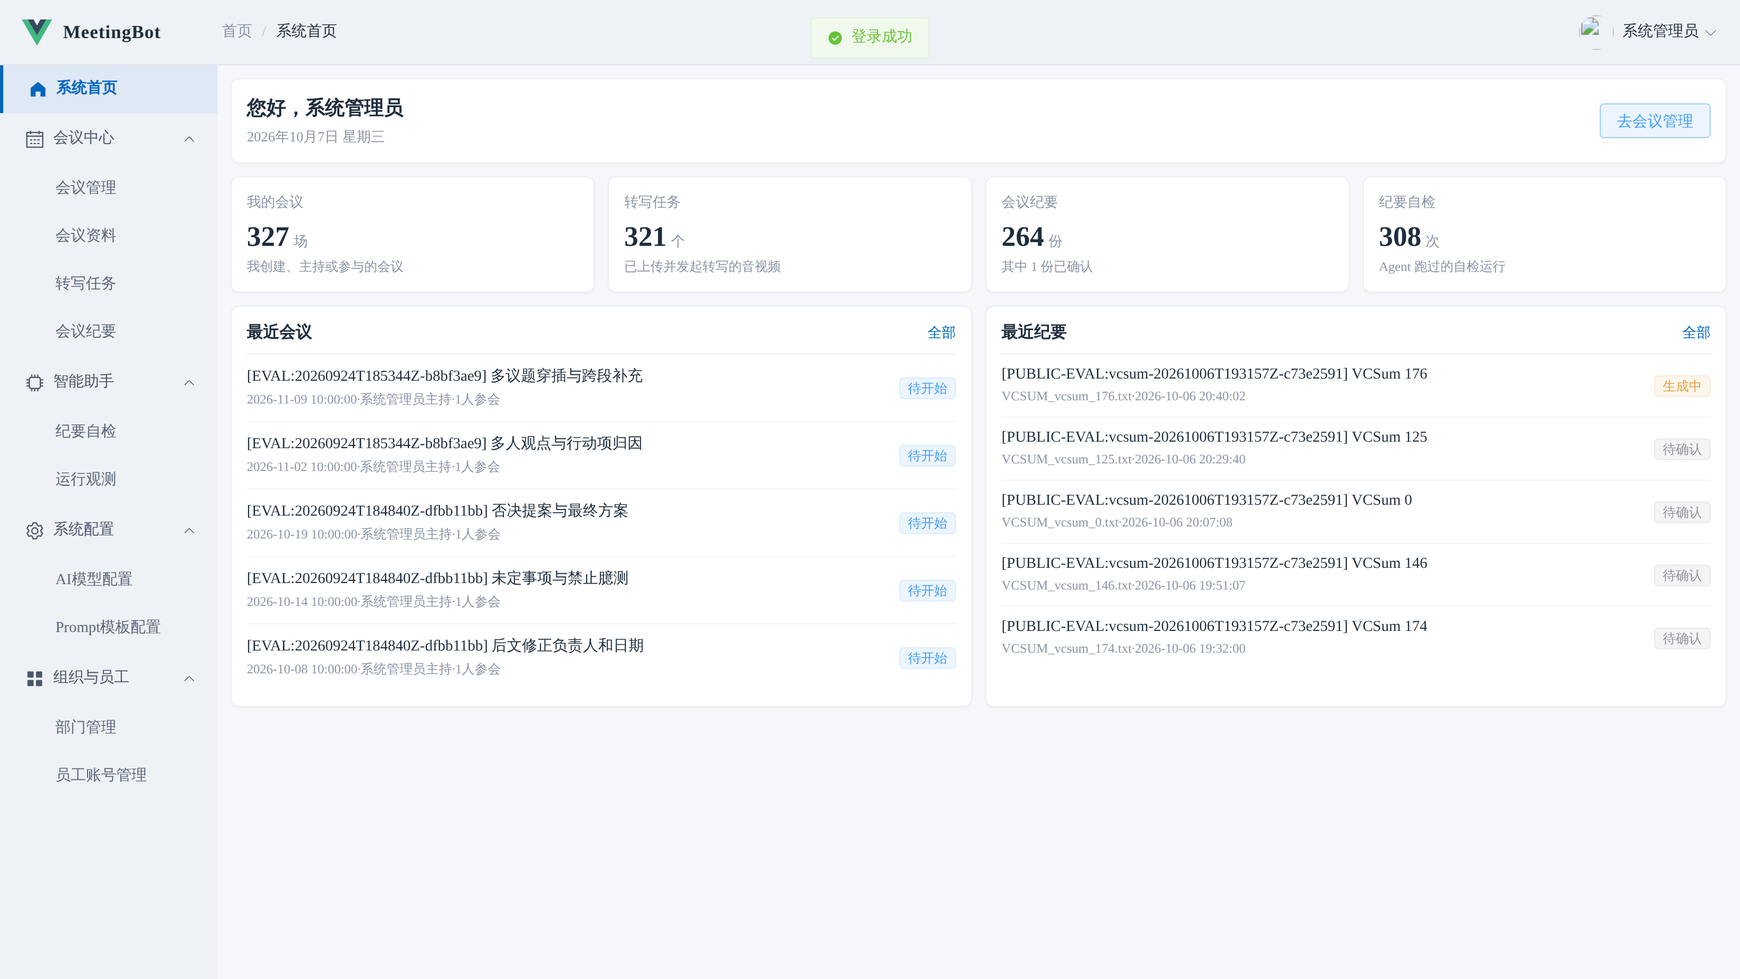
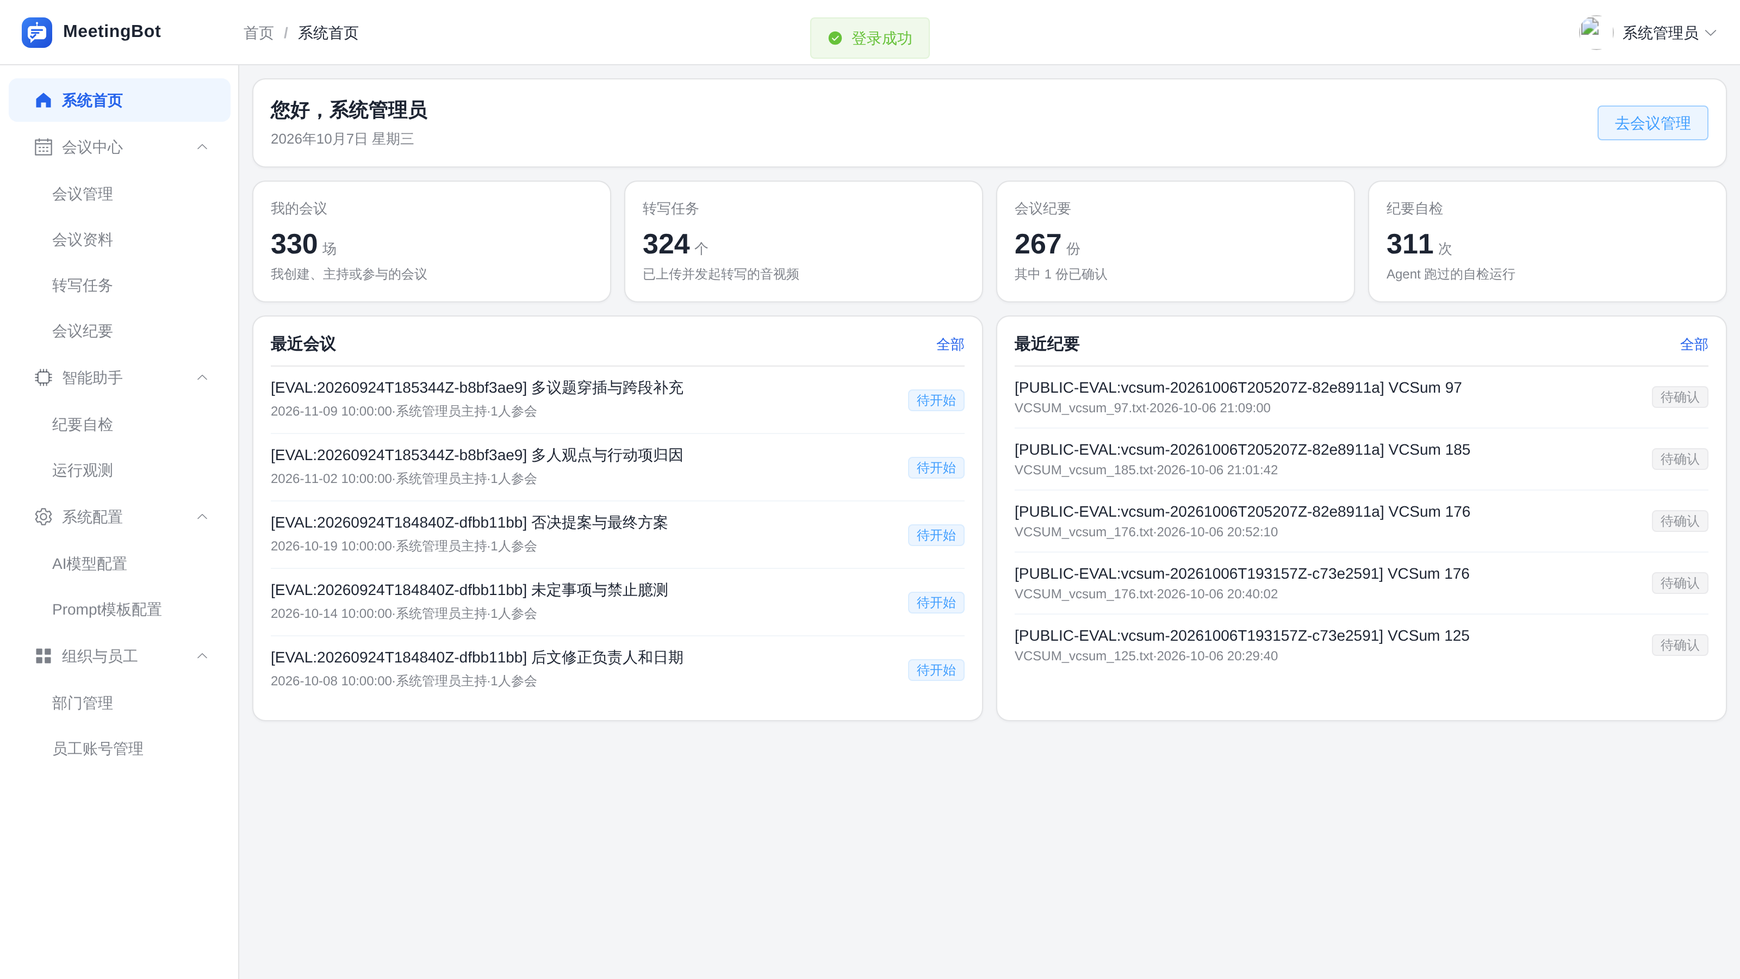
docs: README 重写（对齐 Smartlect 叙述风格）+ MIT 许可
章节对齐 Smartlect：标语+徽章+主图 → 场景编号叙事（上传/转写/纪要/自检/归档）→ 能力分节 → 架构（Mermaid+链路表）→ 技术栈与目录树 → 快速开始（端口表）→ 验证命令 → 运维排查 → 决策记录（指向评测账本）→ 仓库边界 → 许可。按用户要求不写入质量指标数字。新增 MIT LICENSE；12 张截图全部按新视觉重拍。

diff --git a/README.md b/README.md
@@ -1,53 +1,68 @@
 # MeetingBot
 
-[![Python 3.12](https://img.shields.io/badge/Python-3.12-3776AB?style=flat-square&logo=python&logoColor=white)](https://www.python.org/)
-[![FastAPI](https://img.shields.io/badge/FastAPI-asyncio-009688?style=flat-square&logo=fastapi&logoColor=white)](https://fastapi.tiangolo.com/)
-[![Vue 3](https://img.shields.io/badge/Vue-3-4FC08D?style=flat-square&logo=vuedotjs&logoColor=white)](https://vuejs.org/)
-[![MySQL 8](https://img.shields.io/badge/MySQL-8-4479A1?style=flat-square&logo=mysql&logoColor=white)](https://www.mysql.com/)
-[![LangGraph](https://img.shields.io/badge/LangGraph-agent-1C3C3C?style=flat-square)](https://github.com/langchain-ai/langgraph)
-[![Temporal](https://img.shields.io/badge/Temporal-durable--execution-00B4A0?style=flat-square)](https://temporal.io/)
-[![tests](https://img.shields.io/badge/tests-187+%E2%80%89%2B%E2%80%89205-brightgreen?style=flat-square)](#%E6%80%8E%E4%B9%88%E9%AA%8C%E8%AF%81%E5%AE%83%E7%9C%9F%E7%9A%84%E8%83%BD%E8%B7%91)
-[![compose](https://img.shields.io/badge/docker--compose-5--services-2496ED?style=flat-square&logo=docker&logoColor=white)](compose.yaml)
-
 **一场会开完，纪要已经能用了。**
 
 录音或视频传进来，MeetingBot 负责剩下的：转写（谁说了什么）→ 六字段结构化纪要 → Agent 对着原文自检一遍 → 人工确认归档。FastAPI + Vue 3 + MySQL + LangGraph + Temporal，Docker Compose 一条命令起全套。
 
-但这个项目真正的主线是另一件事：**用可复算的评测回答「纪要质量怎么衡量」**。转写对齐 M2MeT 官方 cpCER 口径、忠实度对齐 Vectara HHEM、完整性用 FineSurE 式清单法、行动项核对 AID——每一条结论连口径、证据路径一起登记在 [`evaluation/LEDGER.md`](evaluation/LEDGER.md)，检不出就写检不出。
+[![Python 3.12](https://img.shields.io/badge/Python-3.12-3776AB?style=flat-square&logo=python&logoColor=white)](https://www.python.org/)
+[![FastAPI](https://img.shields.io/badge/FastAPI-asyncio-009688?style=flat-square&logo=fastapi&logoColor=white)](https://fastapi.tiangolo.com/)
+[![Vue 3](https://img.shields.io/badge/Vue-3-4FC08D?style=flat-square&logo=vuedotjs&logoColor=white)](https://vuejs.org/)
+[![Element Plus](https://img.shields.io/badge/Element--Plus-2.8-409EFF?style=flat-square)](https://element-plus.org/)
+[![MySQL 8](https://img.shields.io/badge/MySQL-8-4479A1?style=flat-square&logo=mysql&logoColor=white)](https://www.mysql.com/)
+[![LangGraph](https://img.shields.io/badge/LangGraph-agent-1C3C3C?style=flat-square)](https://github.com/langchain-ai/langgraph)
+[![Temporal](https://img.shields.io/badge/Temporal-durable--execution-00B4A0?style=flat-square)](https://temporal.io/)
+[![docker compose](https://img.shields.io/badge/docker--compose-5%20services-2496ED?style=flat-square&logo=docker&logoColor=white)](compose.yaml)
+[![license](https://img.shields.io/badge/license-MIT-3DA639?style=flat-square)](LICENSE)
 
 ![登录页](docs/assets/screenshots/meetingbot-login.png)
 
 ## 一场会议在这里经历什么
 
-**① 上传与转写**：会议资料页上传音视频（SHA-256 去重），FFmpeg 抽单声道音轨，云端 ASR 单请求直传（≤2h 预检），说话人分离后逐段落库；片段支持人工修订，LLM 说话人匹配建议只从参会人名单里选。
+**① 上传**：会议资料页上传音视频，按内容哈希去重，同一份文件不会存两遍。
+
+**② 转写**：FFmpeg 抽单声道音轨后走云 ASR 单请求直传（说话人分离），逐段落到数据库；片段支持人工修订，说话人拿不准时可以一键让 LLM 从参会人名单里给建议。
 
 ![转写片段](docs/assets/screenshots/meetingbot-transcription-detail.png)
 
-**② 六字段纪要**：单遍长上下文调用生成六字段结构化纪要——概要、议题、观点、决策、待办、风险。每个字段带类型化槽位与证据来源（[`services/contracts.py`](ai_meeting/fastapi-app/services/contracts.py) 把「不许凭空断言」做成数据结构不变量）；磁盘调用缓存让重试不为成功过的调用重复付费。
+**③ 纪要**：单遍长上下文调用生成六字段结构化纪要——概要、议题、观点、决策、待办、风险；每个字段带类型化槽位与证据来源，契约层把「不许凭空断言」做成数据结构不变量。
 
 ![纪要六字段详情](docs/assets/screenshots/meetingbot-minutes-detail.png)
 
-**③ 证据门控自检**：LangGraph 状态机跑「审查 → 重写 → 复审」反思环——Agent 对着转写原文核对六块内容，发现问题自己改一版，全程 SSE 流式推给前端；修订稿**必须人工确认**才会覆盖原纪要。
+**④ 自检**：LangGraph 状态机跑「审查 → 重写 → 复审」反思环，Agent 对着转写原文核对六块内容，全程 SSE 流式推给前端；修订稿必须人工确认才会覆盖原纪要。
 
 ![Agent 自检](docs/assets/screenshots/meetingbot-agent-detail.png)
 
-**④ 确认与归档**：确认后的纪要一键导出 Word / PDF；运行观测页汇总每次模型调用的成功率、Token 用量与失败原因（统计卡片下图按天趋势，数据来自真实评测运行）。
+**⑤ 确认归档**：确认后的纪要一键导出 Word / PDF；运行观测页把每次模型调用记账——成功率、Token 用量、失败原因，卡的住的证据都在。
 
 ![运行观测](docs/assets/screenshots/meetingbot-observability.png)
 
-## 质量是账本，不是感觉
+## 转写：谁在什么时候说了什么
 
-评测体系占这个仓库的一半，宪法六条：结论预注册、裁判异族、检不出就写检不出、留出集消费记账、评测不 import 产品实现、不报加权总分（[`evaluation/README.md`](evaluation/README.md)）。核心结论摘录（口径与证据文件见账本）：
+- 云端 ASR 单请求直传整段录音，一次调用拿到带说话人标签的分段结果，不再切块拼接
+- 时长预检（≤2h）先拦一道，超长录音在入队前拒绝，不浪费调用
+- 引擎可切换：默认云端（DashScope 文件转写），也可以指向本地侧车（FunASR + MOSS-Transcribe-Diarize）
+- 片段级人工修订：改错字、合并拆分、重指说话人都落在 `transcript_segment` 表，可回溯
+- 说话人建议是 suggestion-only：LLM 只从参会人名单里选，采纳与否由人决定
 
-| 指标轴 | 关键数字 | 说明 |
-|---|---|---|
-| 转写（cpCER，M2MeT 口径） | **83.2% → 30.1%** | 说话人归属性字错误率；切分放宽到 3600s 后 8 场受控对比过预注册门禁（Δcp 8/8 ≤10pp、CER 差 +0.13pp），据此翻转产品默认值 |
-| 可靠性 | 端到端 **96.3%** / 调用级 99.6% | 分母含全部失败尝试；调度账本一行 = 一次真实调用 |
-| 忠实度（HHEM 同单位） | 初稿问题率 **23.1% → 重写后 0–7.7%** | 裁判与被测模型异族，裁判自复测一致率 97.4% |
-| 完整性（清单法 v3） | 核心点覆盖 0.781（deepseek）/ 0.869（qwen） | 双族裁判逐点一致率 89.0%；单裁判绝对数只作方向信号 |
-| 单元测试 | 产品 **187** 项 + 评测 **205** 项 | 零模型调用，CI 可复算 |
+## 纪要：六个字段，每个都有出处
 
-也有如实登记的负结果：LLM 裁判跨族标签翻转率 26–34%（所以绝对数必须连裁判族一起报）；plan+gap-fill 机制对覆盖的增益 +1.92pp 未过 +3pp 预注册阈值，保持默认关闭。
+- 概要 / 议题 / 观点 / 决策 / 待办 / 风险，Pydantic 模型由契约层派生，结构化输出走 strict JSON Schema
+- 每个槽位带类型（是否明说、是否推导、是否未提及）与来源闭合（origin + 证据 span），展现层做版本适配
+- 磁盘调用缓存按「模型 + 提示词」哈希去重，重试不会为已经成功过的调用重复付费
+- 修订、确认 / 取消确认、强制结束三条状态出口都在页面上，状态流转全部留痕
+
+## 自检：改完必须人工确认
+
+- 审查、重写、复审三个动作由 LangGraph 编排，图本身不碰数据库和模型，动作注入，可独立测试
+- 每一步的输入输出、判定依据存 `agent_step`，运行状态机覆盖中断与恢复
+- SSE 把步骤实时推到前端，长任务不用轮询
+- 修订稿与原稿并存，人工确认前不覆盖；确认后原稿进入历史
+
+## 观测：每次调用都记账
+
+- 每次模型调用写一行 `ai_call_log`：调用类型、耗时、Token、失败原因——「一行 = 一次真实调用」
+- 失败分类器把超时 / 连接 / 限流 / 服务端错误分开，重试策略只对瞬态错误生效
+- 观测页按天汇总趋势、成功率与模型排行，员工视角按业务归属过滤
 
 ## 架构
 
@@ -57,57 +72,52 @@ flowchart LR
         UI[Vue 3 + Element Plus]
     end
     subgraph compose[Docker Compose]
-        subgraph web[web :18082]
-            NG[nginx 反代 /api 与 /files<br/>SSE 不缓冲，512m 上传]
-        end
-        subgraph backend[backend :19091]
-            API[FastAPI + Tortoise ORM<br/>13 张表]
-            MF[model_factory<br/>strict JSON Schema<br/>重试 + 调用日志]
-            AG[LangGraph<br/>审查→重写→复审]
-        end
-        subgraph temporal[temporal :7233]
-            TQ[Temporal 持久执行<br/>幂等防双跑 / 崩溃续跑]
-        end
-        DB[(MySQL 8)]
+        web[web :18082<br/>nginx 反代 + SSE 不缓冲]
+        backend[backend :19091<br/>FastAPI + Tortoise ORM]
+        agent[LangGraph<br/>审查 → 重写 → 复审]
+        temporal[temporal :7233<br/>持久执行 / 幂等防双跑]
+        db[(MySQL 8)]
     end
-    UI --> NG --> API
-    API --> DB
-    API --> TQ --> API
-    API --> MF
-    MF -->|OpenAI 兼容| LLM[Qwen / 任意兼容模型]
-    MF -->|DashScope 文件转写| ASR[云 ASR<br/>说话人分离]
-    MF -.可选.-> MOSS[本地 MOSS 侧车<br/>FunASR + MOSS-Transcribe]
+    UI --> web --> backend
+    backend --> db
+    backend --> temporal
+    backend --> agent
+    backend -->|OpenAI 兼容| LLM[Qwen / 任意兼容模型]
+    backend -->|文件转写| ASR[云 ASR]
 ```
 
-转写 / 纪要 / 自检三类长任务全部走 Temporal 持久执行：workflow id 幂等防双跑、崩溃自动续跑、并发上限 2；每次模型调用写一行 `ai_call_log`（计时、Token、失败分类），观测页与可靠性统计都从这张表复算。无 Redis、无向量库、无 RAG——链路里每一环都能在代码里指到。
+| 链路 | 走过谁 |
+|---|---|
+| 转写链路 | 上传 → Temporal 提交任务 → ASR → 分段落库 →（可选）说话人建议 |
+| 纪要链路 | 转写就绪 → 单遍长上下文生成 → 契约校验 →（可选）自检反思环 → 人工确认 → 导出 |
+
+转写 / 纪要 / 自检三类长任务全部走 Temporal 持久执行：workflow id 幂等防双跑、崩溃自动续跑、并发上限 2。无 Redis、无向量库、无 RAG——链路里每一环都能在代码里指到。
 
 ## 技术栈
 
-| 层 | 选型 |
-|---|---|
-| 后端 | Python 3.12 · FastAPI · Tortoise ORM · Pydantic v2 · LangChain / LangGraph · Temporal |
-| 前端 | Vue 3 · Vite 5 · Element Plus · ECharts · wangEditor |
-| 数据 | MySQL 8（13 张表，建库脚本含种子数据） |
-| 模型 | OpenAI 兼容接口（默认 Qwen3.8-Max + Qwen-Audio ASR，DashScope）；ASR 引擎可切换（云端 / 本地 MOSS 侧车） |
-| 部署 | Docker Compose 五服务（db / backend / web / temporal / temporal-worker）· FFmpeg · nginx |
+- **后端**：Python 3.12 · FastAPI · Tortoise ORM · Pydantic v2 · LangChain / LangGraph
+- **调度**：Temporal（durable execution，三类长任务）
+- **前端**：Vue 3 · Vite 5 · Element Plus · ECharts · wangEditor
+- **数据**：MySQL 8（13 张表，建库脚本含种子数据）
+- **模型**：OpenAI 兼容接口（默认 Qwen3.8-Max + Qwen-Audio ASR），ASR 引擎可切换云端 / 本地侧车
+- **部署**：Docker Compose 五服务 · FFmpeg · nginx
+- **安全**：bcrypt 哈希 · JWT 密码指纹（改密即吊销）· 登录限流 · 服务端 MIME + nosniff · 统一权限口径
 
 ```
 ai_meeting/
-├── fastapi-app/               # 后端：api/ 路由 · services/ 领域服务 · common/ 基础设施
-│   ├── services/contracts.py        # 纪要证据契约层（类型化槽位 + 来源闭合）
-│   ├── services/agent_graph.py      # LangGraph 审查→重写→复审状态机
-│   ├── services/model_factory.py    # 统一模型调用（结构化输出 / 重试 / 计费日志）
-│   ├── services/temporal_workflows.py # 三类长任务持久执行
-│   └── tests/                       # 产品侧 187 项零调用测试
-├── vue/                       # 前端：14 个管理页面（会议 / 转写 / 纪要 / 自检 / 观测 / 配置）
-└── ../ai_meeting.sql          # 建库脚本 + 种子数据（空卷初始化时导入）
-evaluation/                    # 评测主线（与产品代码物理隔离，不 import 产品实现）
-├── README.md                  # 评测宪法（六条硬规则）
-├── DESIGN.md                  # 四层设计书（smoke / deep / gate / gold）
-├── LEDGER.md                  # 可引用结论账本（口径 + 证据路径 + 撤回记录）
-├── asr/ benchmarks/ judges/ gate/ gold/ regression/ lib/ tests/ results/
-scripts/                       # compose.sh · moss_asr_server.py（本地 ASR 侧车）· indexes.sql
-docs/assets/screenshots/       # README 实拍截图（真实启动后浏览器截图）
+├── fastapi-app/                     # 后端
+│   ├── api/                         # 路由：会议 / 资料 / 转写 / 纪要 / 自检 / 观测 / 配置
+│   ├── services/                    # 领域服务：契约层 / 模型工厂 / 反思环 / Temporal 工作流
+│   ├── common/                      # 基础设施：认证 / 限流 / JSON 修复 / 供应商能力表
+│   └── tests/                       # 产品侧零调用测试
+├── vue/                             # 前端：14 个管理页面
+└── ../ai_meeting.sql                # 建库脚本 + 种子数据（空卷初始化时导入）
+evaluation/                          # 评测体系（与产品代码物理隔离，不 import 产品实现）
+├── README.md / DESIGN.md            # 评测宪法与四层设计书
+├── LEDGER.md                        # 结论账本：可引用结论 + 撤回记录
+├── asr/ benchmarks/ judges/ gate/ gold/ regression/ lib/ tests/
+scripts/                             # compose.sh · 本地 ASR 侧车 · 索引脚本
+docs/assets/                         # logo 与 README 实拍截图
 ```
 
 ## 快速开始
@@ -120,24 +130,28 @@ cp ai_meeting/fastapi-app/.env.example ai_meeting/fastapi-app/.env
 #   DASHSCOPE_API_KEY                      模型密钥（不填服务也能起，调用会失败但页面可逛）
 #   APP_ADMIN_PASSWORD                     管理员初始密码
 
-./scripts/compose.sh up -d --build   # 五服务全起：http://127.0.0.1:18082
+./scripts/compose.sh up -d --build       # 五服务全起
 ```
 
-`compose.sh` 统一从 `ai_meeting/fastapi-app/.env` 读配置（密钥不进根目录、不进镜像、不进版本控制）。种子数据带示例会议、转写、纪要与模型配置，管理员账号见 `.env` 的 `APP_ADMIN_USERNAME / APP_ADMIN_PASSWORD`（首次启动自动建号）。端口：web `18082` · backend `19091`（`/health`）· temporal UI `17233`，全部只绑 127.0.0.1。
+配置统一从 `ai_meeting/fastapi-app/.env` 读取（密钥不进根目录、不进镜像、不进版本控制）。种子数据带示例会议、转写、纪要与模型配置；管理员账号见 `.env` 的 `APP_ADMIN_USERNAME / APP_ADMIN_PASSWORD`（首次启动自动建号）。
 
-### 怎么验证它真的能跑
+| 入口 | 地址 |
+|---|---|
+| 网页 | <http://127.0.0.1:18082> |
+| 后端健康检查 | <http://127.0.0.1:19091/health> |
+| Temporal | 127.0.0.1:17233（仅本机回环） |
+
+## 怎么验证它真的能跑
 
 ```bash
-make -C evaluation smoke    # L0 零调用回归：契约不变量 / 可定位率 / 可靠性复算（不需任何模型凭据）
-make -C evaluation test     # 评测侧 205 项单测
-cd ai_meeting/fastapi-app && .venv/bin/python -m pytest tests/ -q   # 产品侧 187 项
+make -C evaluation smoke    # 零调用回归：契约不变量 / 可定位率 / 可靠性复算（不需任何模型凭据）
+make -C evaluation test     # 评测侧单测
+cd ai_meeting/fastapi-app && .venv/bin/python -m pytest tests/ -q   # 产品侧单测（内存 SQLite + Mock 模型）
 ```
 
-本地跑产品侧测试的依赖安装：`cd ai_meeting/fastapi-app && uv venv --python 3.12 .venv && uv pip install --python .venv/bin/python -r requirements.txt`（pip 等价亦可）。
+产品侧本地环境：`cd ai_meeting/fastapi-app && uv venv --python 3.12 .venv && uv pip install --python .venv/bin/python -r requirements.txt`（pip 等价亦可）。
 
-### 跑评测（可选，需要模型凭据与预算）
-
-评测分四层入口：`smoke`（零调用回归）/ `deep`（裁判判读）/ `gate`（留出集门禁）/ `gold`（金标注与裁判校准）。公开评测集（AliMeeting / VCSum）的语料与音频**不入库**——用 `evaluation/benchmarks/download_alimeeting.py` 按 manifest 清单复得；预算护栏（`manage_fixture.py`）直接拦截超预算的模型调用，live 运行必须显式开启。
+评测体系分四层入口：`smoke`（零调用回归）/ `deep`（裁判判读）/ `gate`（留出集门禁）/ `gold`（金标注与裁判校准）。公开评测集（AliMeeting / VCSum）的语料与音频不入库，用 `evaluation/benchmarks/download_alimeeting.py` 按清单复得；live 运行有预算护栏并必须显式开启。
 
 ## 运维与排查入口
 
@@ -150,33 +164,26 @@ cd ai_meeting/fastapi-app && .venv/bin/python -m pytest tests/ -q   # 产品侧 
 | 卡死的任务 | 纪要页「强制结束」出口（forceFail） |
 | 部署细节与红线 | [DEPLOYMENT.md](DEPLOYMENT.md)（单 worker 约束、密钥泄露处置、索引修复） |
 
-## 更多页面
+## 决策记录
 
-| 页面 | 截图 |
+产品机制的默认值不是拍脑袋定的：每个候选机制先写预注册规则再跑数，过了门禁才翻转默认；不显著的结论如实登记「检不出」，撤回的结论连理由保留。这些记录连同证据路径都在评测账本里，按章节节选：
+
+| 主题 | 记录在哪 |
 |---|---|
-| 首页仪表盘 | [meetingbot-home.png](docs/assets/screenshots/meetingbot-home.png) |
-| 会议管理 | [meetingbot-meeting.png](docs/assets/screenshots/meetingbot-meeting.png) |
-| 会议资料 | [meetingbot-material.png](docs/assets/screenshots/meetingbot-material.png) |
-| 转写任务 / 片段 | [列表](docs/assets/screenshots/meetingbot-transcription.png) · [片段详情](docs/assets/screenshots/meetingbot-transcription-detail.png) |
-| 会议纪要 / 详情 | [列表](docs/assets/screenshots/meetingbot-minutes.png) · [六字段详情](docs/assets/screenshots/meetingbot-minutes-detail.png) |
-| 纪要自检 / 运行详情 | [列表](docs/assets/screenshots/meetingbot-agent.png) · [运行详情](docs/assets/screenshots/meetingbot-agent-detail.png) |
-| AI 模型配置 | [meetingbot-aimodel.png](docs/assets/screenshots/meetingbot-aimodel.png) |
-
-以上均为本仓库代码真实启动（compose 五服务）后浏览器实拍。
+| 转写切分参数的产品默认值 | [evaluation/LEDGER.md](evaluation/LEDGER.md) · 预注册：切分提默认的判定规则 |
+| 单请求直传 vs 切块拼接 | `LEDGER.md` · R5 ASR 单请求复测（假设修正过程） |
+| 自检反思环的保默认机制 | `LEDGER.md` · R3 保默认机制验证 |
+| 优化机制的默认开关状态 | `LEDGER.md` · 产品机制状态表 |
+| 全部撤回与存疑结论 | `LEDGER.md` · 存疑与已撤回 |
 
 ## 这个仓库里没有的东西
 
-- **没有语料与音频**：AliMeeting / VCSum 评测语料与会议音频不入库（体积与数据集许可），脚本可按清单复得；评测的 JSON / TXT 证据、运行账本与结论全部在库。
+- **没有语料与音频**：AliMeeting / VCSum 评测语料与会议音频不入库（体积与数据集许可），脚本按清单复得；评测证据与运行账本在库。
 - **没有云依赖**：无 Redis、无向量库、无 RAG；模型走 OpenAI 兼容接口，换供应商只改 `.env`。
-- **没有「跑通即完成」**：所有产品机制默认值都过预注册门禁才翻转，效应检不出就如实登记，撤回的结论连理由保留。
+- **没有密钥**：`.env` 与任何密钥都不在版本控制内，仓库只有 `.env.example`。
 - **没有个人资料与生成式架构图目录**：仓库只含项目代码、评测资产与实拍截图。
 
-## 文档导航
+## 许可
 
-| 想了解 | 读这个 |
-|---|---|
-| 面向技术评审的项目报告 | [PROJECT_REPORT.md](PROJECT_REPORT.md) |
-| 评测怎么设计、怎么跑 | [evaluation/README.md](evaluation/README.md) · [evaluation/DESIGN.md](evaluation/DESIGN.md) |
-| 哪些结论可引用、证据在哪 | [evaluation/LEDGER.md](evaluation/LEDGER.md) |
-| 部署细节 | [DEPLOYMENT.md](DEPLOYMENT.md) |
-| 纪要契约与判定标准 | [ai_meeting/fastapi-app/CONTRACT.md](ai_meeting/fastapi-app/CONTRACT.md) · [JUDGMENT_STANDARD.md](ai_meeting/fastapi-app/JUDGMENT_STANDARD.md) |
+- 本项目使用 [MIT 许可证](LICENSE)，可自由使用、修改与商用，保留版权声明即可。
+- 使用云模型服务（Qwen / ASR）时请遵守对应供应商的服务条款；评测数据集的使用请遵守数据集自身的许可。
